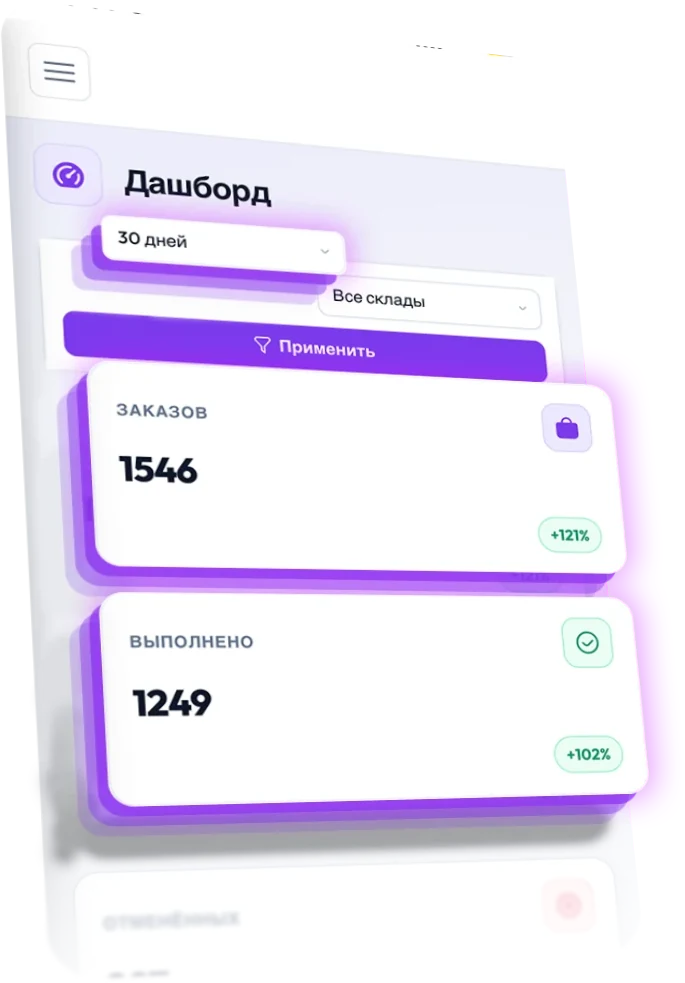
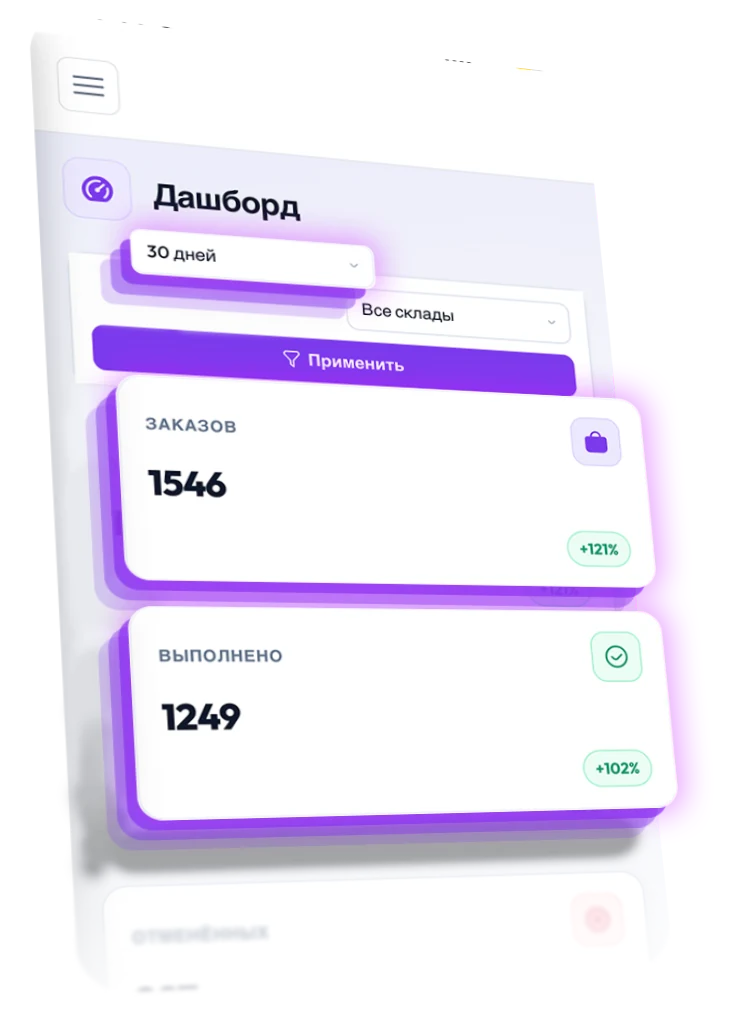
Цена: вернул вид из 8d4c321 — дашборд справа заходит на телефон
Прошлый откат был не туда: вернул размеры до 8d4c321, а нравился
именно вид 8d4c321. Огромными снимки в цене стали позже, когда я
обрезал прозрачные поля у всех картинок — при той же ширине в CSS
содержимое выросло.

Возвращено ровно состояние 8d4c321 для блока цены:
- CSS коллажа: колонка clamp(230,27vw,440), коллаж clamp(210,27vw,420),
  снимки clamp(130,16vw,270), второй снимок прижат к низу
- shot-push.webp и shot-dashboard.webp — необрезанные версии из 8d4c321
  (обе используются только в цене, первый экран и остальное не тронуты)

Коллаж по высоте ровно с карточкой: 500/500 на 1920, 428/428 на 1440.
Скриншот на 1440 совпадает с тем, что было в 8d4c321. Адаптив чистый.

diff --git a/site/index.html b/site/index.html
@@ -449,16 +449,16 @@ section, .foot { position: relative; z-index: 1; }
   gap: clamp(20px, 2.4vw, 46px); margin-top: clamp(28px, 2.4vw, 46px); align-items: stretch; }
 .price .box { background: var(--ink-lift); border: 1px solid #1F1D24;
     padding: clamp(20px, 1.67vw, 32px) clamp(22px, 2.5vw, 48px);
-    display: grid; grid-template-columns: minmax(0, 1fr) clamp(210px, 24vw, 400px); gap: 0; }
+    display: grid; grid-template-columns: minmax(0, 1fr) clamp(230px, 27vw, 440px); gap: 0; }
   /* коллаж снимков внутри карточки цены — тот же приём, что в первом экране */
   .price .collage { position: relative; justify-self: start; margin-top: 10px;
     margin-left: 10px;
-    width: clamp(190px, 22.7vw, 380px); min-height: clamp(270px, 27vw, 470px); }
+    width: clamp(210px, 27vw, 420px); min-height: clamp(300px, 29vw, 490px); }
   .price .collage .shot { position: absolute; }
   .price .collage .shot.a, .price .collage .shot.b {
-    width: clamp(92px, 11vw, 185px); }
+    width: clamp(130px, 16vw, 270px); }
   .price .collage .shot.a { left: 0; top: 0; }
-  .price .collage .shot.b { right: 0; top: clamp(48px, 4.4vw, 84px); }
+  .price .collage .shot.b { right: 0; bottom: 0; }
 .price .tagline { font-size: var(--fs-cap); letter-spacing: .14em; text-transform: uppercase;
   color: var(--muted-hi); font-family: Oswald, sans-serif; }
 .price .sum { font-family: Oswald, sans-serif; font-weight: 700; font-size: clamp(40px, 3.44vw, 66px);

diff --git a/site/template.html b/site/template.html
@@ -449,16 +449,16 @@ section, .foot { position: relative; z-index: 1; }
   gap: clamp(20px, 2.4vw, 46px); margin-top: clamp(28px, 2.4vw, 46px); align-items: stretch; }
 .price .box { background: var(--ink-lift); border: 1px solid #1F1D24;
     padding: clamp(20px, 1.67vw, 32px) clamp(22px, 2.5vw, 48px);
-    display: grid; grid-template-columns: minmax(0, 1fr) clamp(210px, 24vw, 400px); gap: 0; }
+    display: grid; grid-template-columns: minmax(0, 1fr) clamp(230px, 27vw, 440px); gap: 0; }
   /* коллаж снимков внутри карточки цены — тот же приём, что в первом экране */
   .price .collage { position: relative; justify-self: start; margin-top: 10px;
     margin-left: 10px;
-    width: clamp(190px, 22.7vw, 380px); min-height: clamp(270px, 27vw, 470px); }
+    width: clamp(210px, 27vw, 420px); min-height: clamp(300px, 29vw, 490px); }
   .price .collage .shot { position: absolute; }
   .price .collage .shot.a, .price .collage .shot.b {
-    width: clamp(92px, 11vw, 185px); }
+    width: clamp(130px, 16vw, 270px); }
   .price .collage .shot.a { left: 0; top: 0; }
-  .price .collage .shot.b { right: 0; top: clamp(48px, 4.4vw, 84px); }
+  .price .collage .shot.b { right: 0; bottom: 0; }
 .price .tagline { font-size: var(--fs-cap); letter-spacing: .14em; text-transform: uppercase;
   color: var(--muted-hi); font-family: Oswald, sans-serif; }
 .price .sum { font-family: Oswald, sans-serif; font-weight: 700; font-size: clamp(40px, 3.44vw, 66px);
